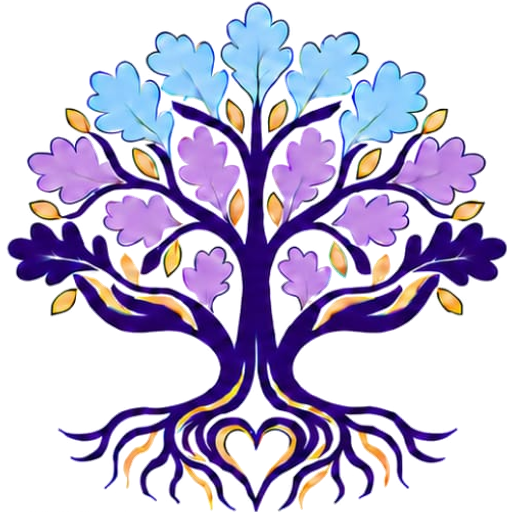
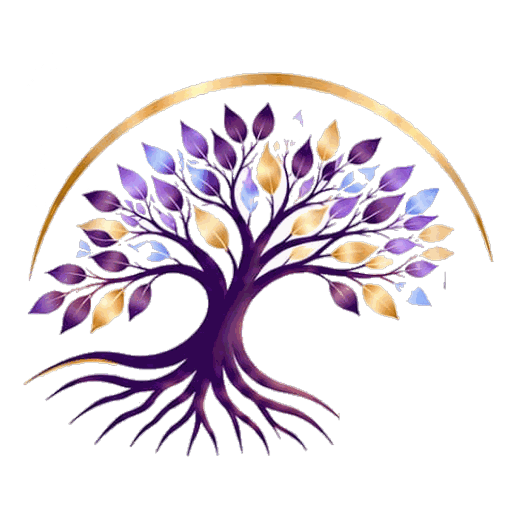
Rebrand to The Oak Families and Wellness and add fees
Her registered name is now The Oak Families and Wellness, and the site
was still mixing it with the old one.

- Rename the practice to The Oak Families and Wellness everywhere: page
  content, metadata and titles, booking form, footer, admin header
- Rename her to Tabita Zenani Kwatsha (was Sinobungcwele Tabita Kwatsha)
- Header wordmark now reads "The Oak / FAMILIES AND WELLNESS"
- New logo, photo and favicon taken from the business card and headshot
  she sent: the tree mark, the full lockup and her new portrait
- Add fees to the Services page, from the practice: individual sessions
  from R600, group therapy from R800

diff --git a/frontend/src/components/Logo.tsx b/frontend/src/components/Logo.tsx
@@ -2,7 +2,8 @@ import Image from "next/image";
 import Link from "next/link";
 import logoTree from "@/assets/logo-tree.png";
 
-// Text version of the "The Oak / — WELLNESS —" lockup from the business card.
+// Text version of the "The Oak / Families and Wellness" lockup from the
+// business card.
 export function Wordmark({ tone = "dark" }: { tone?: "dark" | "light" }) {
   return (
     <span
@@ -11,9 +12,9 @@ export function Wordmark({ tone = "dark" }: { tone?: "dark" | "light" }) {
       <span className="font-serif text-xl font-black tracking-tight">
         The Oak
       </span>
-      <span className="mt-1.5 flex items-center gap-1.5 text-[0.6rem] font-bold tracking-[0.3em]">
+      <span className="mt-1.5 flex items-center gap-1.5 text-[0.6rem] font-bold tracking-[0.2em]">
         <span className="h-px w-3 bg-gold" />
-        <span className="-mr-[0.3em]">WELLNESS</span>
+        <span className="-mr-[0.2em] whitespace-nowrap">FAMILIES AND WELLNESS</span>
         <span className="h-px w-3 bg-gold" />
       </span>
     </span>
@@ -24,7 +25,7 @@ export function Logo() {
   return (
     <Link
       href="/"
-      aria-label="The Oak Wellness home"
+      aria-label="The Oak Families and Wellness home"
       className="flex shrink-0 items-center gap-2.5"
     >
       <Image src={logoTree} alt="" priority className="h-11 w-auto" />

diff --git a/frontend/src/components/sections/Fees.tsx b/frontend/src/components/sections/Fees.tsx
@@ -1,0 +1,25 @@
+import { SectionHeading } from "@/components/SectionHeading";
+import type { SiteContent } from "@/lib/api";
+
+export function Fees({ fees }: { fees: SiteContent["fees"] }) {
+  return (
+    <section className="bg-paper">
+      <div className="mx-auto max-w-6xl px-5 py-20 sm:px-8 md:py-24">
+        <SectionHeading title={fees.title} align="center" />
+        <ul className="mx-auto mt-10 grid max-w-3xl gap-5 sm:grid-cols-2">
+          {fees.items.map((item) => (
+            <li
+              key={item.label}
+              className="rounded-2xl border border-violet/15 bg-lilac px-7 py-8 text-center"
+            >
+              <p className="text-lg leading-snug text-midnight/75">{item.label}</p>
+              <p className="mt-2 font-serif text-3xl font-black tracking-tight text-indigo">
+                {item.amount}
+              </p>
+            </li>
+          ))}
+        </ul>
+      </div>
+    </section>
+  );
+}

diff --git a/frontend/src/app/book/BookingForm.tsx b/frontend/src/app/book/BookingForm.tsx
@@ -74,7 +74,7 @@ export function BookingForm({
           Thank you, {firstName}
         </h2>
         <p className="mx-auto mt-4 max-w-lg text-lg leading-relaxed text-midnight/75">
-          Your booking request has been sent to The Oak Wellness.
+          Your booking request has been sent to The Oak Families and Wellness.
         </p>
         <p className="mt-3 text-midnight/70">
           You can also call or{" "}
@@ -287,7 +287,7 @@ export function BookingForm({
             className="mt-1 h-5 w-5 shrink-0 accent-indigo"
           />
           <span className="leading-relaxed text-midnight/80">
-            I agree that The Oak Wellness may keep these details and contact me about
+            I agree that The Oak Families and Wellness may keep these details and contact me about
             my booking.
           </span>
         </label>

diff --git a/frontend/src/app/layout.tsx b/frontend/src/app/layout.tsx
@@ -22,11 +22,11 @@ const sourceSans = Source_Sans_3({
 
 export const metadata: Metadata = {
   title: {
-    default: "The Oak Wellness",
-    template: "%s | The Oak Wellness",
+    default: "The Oak Families and Wellness",
+    template: "%s | The Oak Families and Wellness",
   },
   description:
-    "The Oak Wellness is a private social work practice dedicated to strengthening individuals, families, children, adolescents, parents and employees through professional counselling, coaching and psychosocial support.",
+    "The Oak Families and Wellness is a private social work practice dedicated to strengthening individuals, families, children, adolescents, parents and employees through professional counselling, coaching and psychosocial support.",
 };
 
 export default async function RootLayout({ children }: LayoutProps<"/">) {

diff --git a/frontend/src/app/services/page.tsx b/frontend/src/app/services/page.tsx
@@ -2,6 +2,7 @@ import type { Metadata } from "next";
 import { PageHeader } from "@/components/PageHeader";
 import { Unavailable } from "@/components/Unavailable";
 import { BookingCta } from "@/components/sections/BookingCta";
+import { Fees } from "@/components/sections/Fees";
 import { ServiceGroups } from "@/components/sections/ServiceGroups";
 import { ServicePhotos } from "@/components/sections/ServicePhotos";
 import { WhoWeServe } from "@/components/sections/WhoWeServe";
@@ -23,6 +24,7 @@ export default async function ServicesPage() {
       <ServicePhotos />
       <ServiceGroups services={content.services} />
       <WhoWeServe whoWeServe={content.who_we_serve} />
+      <Fees fees={content.fees} />
       <BookingCta contact={content.contact} />
     </>
   );

diff --git a/frontend/src/components/SiteFooter.tsx b/frontend/src/components/SiteFooter.tsx
@@ -92,7 +92,7 @@ export function SiteFooter({ content }: { content: SiteContent | null }) {
       </div>
       <div className="border-t border-paper/10">
         <p className="mx-auto max-w-6xl px-5 py-6 text-sm text-paper/55 sm:px-8">
-          &copy; {new Date().getFullYear()} The Oak Wellness. All rights reserved.
+          &copy; {new Date().getFullYear()} The Oak Families and Wellness. All rights reserved.
         </p>
       </div>
     </footer>

diff --git a/frontend/src/app/contact/page.tsx b/frontend/src/app/contact/page.tsx
@@ -8,7 +8,7 @@ import { getSiteContent } from "@/lib/api";
 export const metadata: Metadata = {
   title: "Contact Details",
   description:
-    "The Oak Wellness, 134 Kempston Road, Gqeberha. Telephone: 079 260 4577. Email: zenanitab@gmail.com",
+    "The Oak Families and Wellness, 134 Kempston Road, Gqeberha. Telephone: 079 260 4577. Email: zenanitab@gmail.com",
 };
 
 export default async function ContactPage() {

diff --git a/frontend/src/app/approach/page.tsx b/frontend/src/app/approach/page.tsx
@@ -8,7 +8,7 @@ import { getSiteContent } from "@/lib/api";
 export const metadata: Metadata = {
   title: "Our Approach",
   description:
-    "The Oak Wellness follows a person-centred and strengths-based approach.",
+    "The Oak Families and Wellness follows a person-centred and strengths-based approach.",
 };
 
 export default async function ApproachPage() {

diff --git a/frontend/src/app/book/page.tsx b/frontend/src/app/book/page.tsx
@@ -7,7 +7,7 @@ import { BookingForm } from "./BookingForm";
 
 export const metadata: Metadata = {
   title: "Book a Session",
-  description: "Request a session with The Oak Wellness.",
+  description: "Request a session with The Oak Families and Wellness.",
 };
 
 export default async function BookPage() {

diff --git a/frontend/src/app/globals.css b/frontend/src/app/globals.css
@@ -1,6 +1,6 @@
 @import "tailwindcss";
 
-/* Brand colours, sampled from The Oak Wellness business card. */
+/* Brand colours, sampled from The Oak Families and Wellness business card. */
 @theme inline {
   --color-paper: #fcfbf6;
   --color-lilac: #f3eefb;

diff --git a/frontend/src/lib/api.ts b/frontend/src/lib/api.ts
@@ -63,6 +63,10 @@ export type SiteContent = {
     intro: string;
     groups: string[];
   };
+  fees: {
+    title: string;
+    items: { label: string; amount: string }[];
+  };
   approach: string[];
   commitment: string;
   contact: Contact;

diff --git a/backend/pages/content.py b/backend/pages/content.py
@@ -2,14 +2,14 @@
 Content for every page of the site, served to the Next.js frontend via
 /api/content/.
 
-Everything here comes from The Oak Wellness practice profile, business card
+Everything here comes from The Oak Families and Wellness practice profile, business card
 and updated mission and vision. Only add information the practice has
 supplied.
 """
 
 SITE_CONTENT = {
     'practice': {
-        'name': 'The Oak Wellness',
+        'name': 'The Oak Families and Wellness',
         'tagline': 'Strength • Growth • Wellness',
         'registration': 'Reg No: 10-28261',
         'practice_number': 'Practice No: 1369229',
@@ -21,7 +21,7 @@ SITE_CONTENT = {
             'future.'
         ),
         'subtitle': (
-            'The Oak Wellness is a private social work practice dedicated to '
+            'The Oak Families and Wellness is a private social work practice dedicated to '
             'strengthening individuals, families, children, adolescents, parents '
             'and employees through professional counselling, coaching and '
             'psychosocial support.'
@@ -37,13 +37,13 @@ SITE_CONTENT = {
     # Introduction from the social worker, with her photo. The home page shows
     # the first two paragraphs; the About page shows all of them.
     'meet': {
-        'title': 'Meet Sinobungcwele Tabita Kwatsha',
-        'name': 'Sinobungcwele Tabita Kwatsha',
+        'title': 'Meet Tabita Zenani Kwatsha',
+        'name': 'Tabita Zenani Kwatsha',
         'role': 'Social Worker in Private Practice',
         'paragraphs': [
             'Welcome to The Oak Families and Wellness.',
             (
-                'My name is Sinobungcwele Tabita Kwatsha, a qualified and '
+                'My name is Tabita Zenani Kwatsha, a qualified and '
                 'registered Social Worker with over 15 years of professional '
                 'experience supporting children, adolescents, adults and families. '
                 'I hold a Bachelor of Social Work degree from the University of '
@@ -77,7 +77,7 @@ SITE_CONTENT = {
     'about': {
         'paragraphs': [
             (
-                'The Oak Wellness is a private social work practice dedicated to '
+                'The Oak Families and Wellness is a private social work practice dedicated to '
                 'strengthening individuals, families, children, adolescents, '
                 'parents and employees through professional counselling, coaching '
                 'and psychosocial support.'
@@ -208,9 +208,17 @@ SITE_CONTENT = {
             'People experiencing personal, emotional, family or workplace challenges',
         ],
     },
+    # Fees supplied by the practice.
+    'fees': {
+        'title': 'Fees',
+        'items': [
+            {'label': 'Individual sessions', 'amount': 'From R600'},
+            {'label': 'Group therapy', 'amount': 'From R800'},
+        ],
+    },
     'approach': [
         (
-            'The Oak Wellness follows a person-centred and strengths-based '
+            'The Oak Families and Wellness follows a person-centred and strengths-based '
             'approach. Every client is treated with dignity and encouraged to '
             'participate actively in developing practical solutions suited to '
             'their circumstances.'
@@ -223,7 +231,7 @@ SITE_CONTENT = {
         ),
     ],
     'commitment': (
-        'At The Oak Wellness, we believe that every person has the capacity to '
+        'At The Oak Families and Wellness, we believe that every person has the capacity to '
         'heal, grow and build a healthier future. We are committed to walking '
         'alongside our clients with compassion, professionalism and hope.'
     ),
